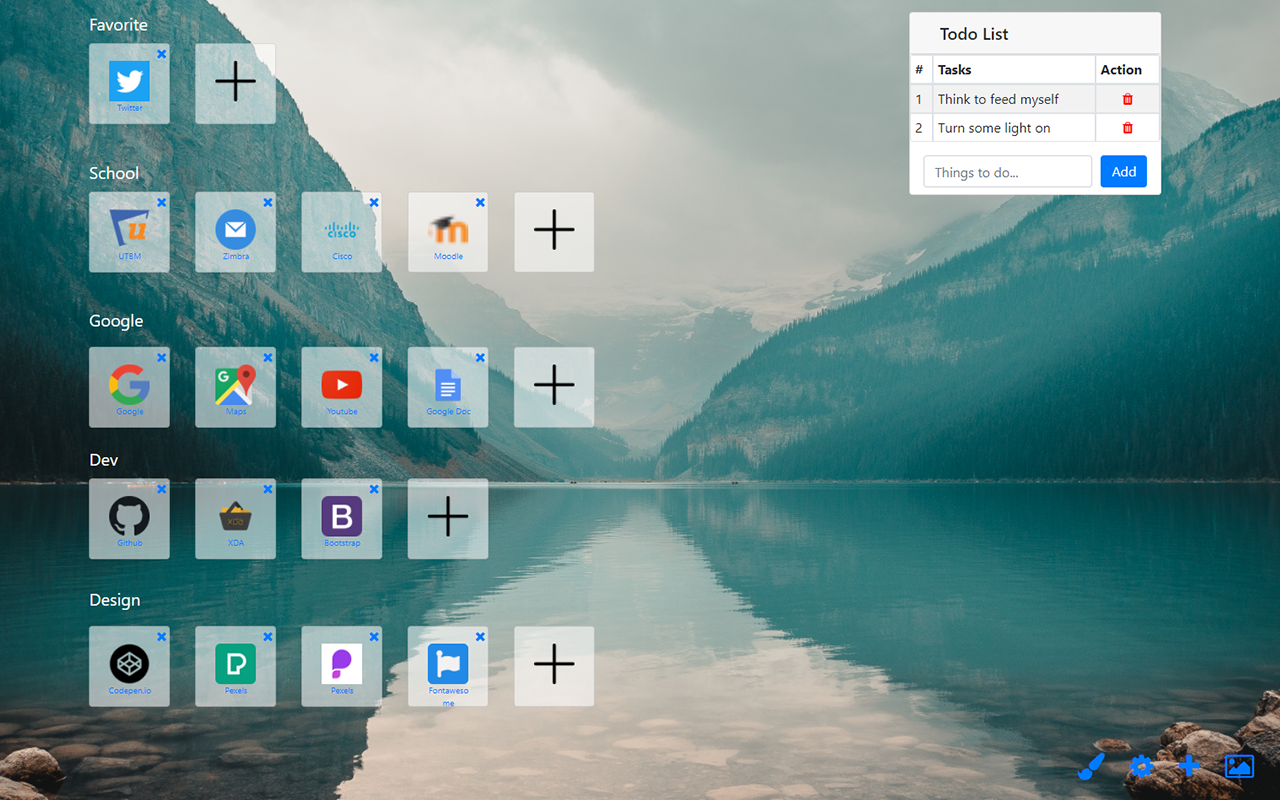
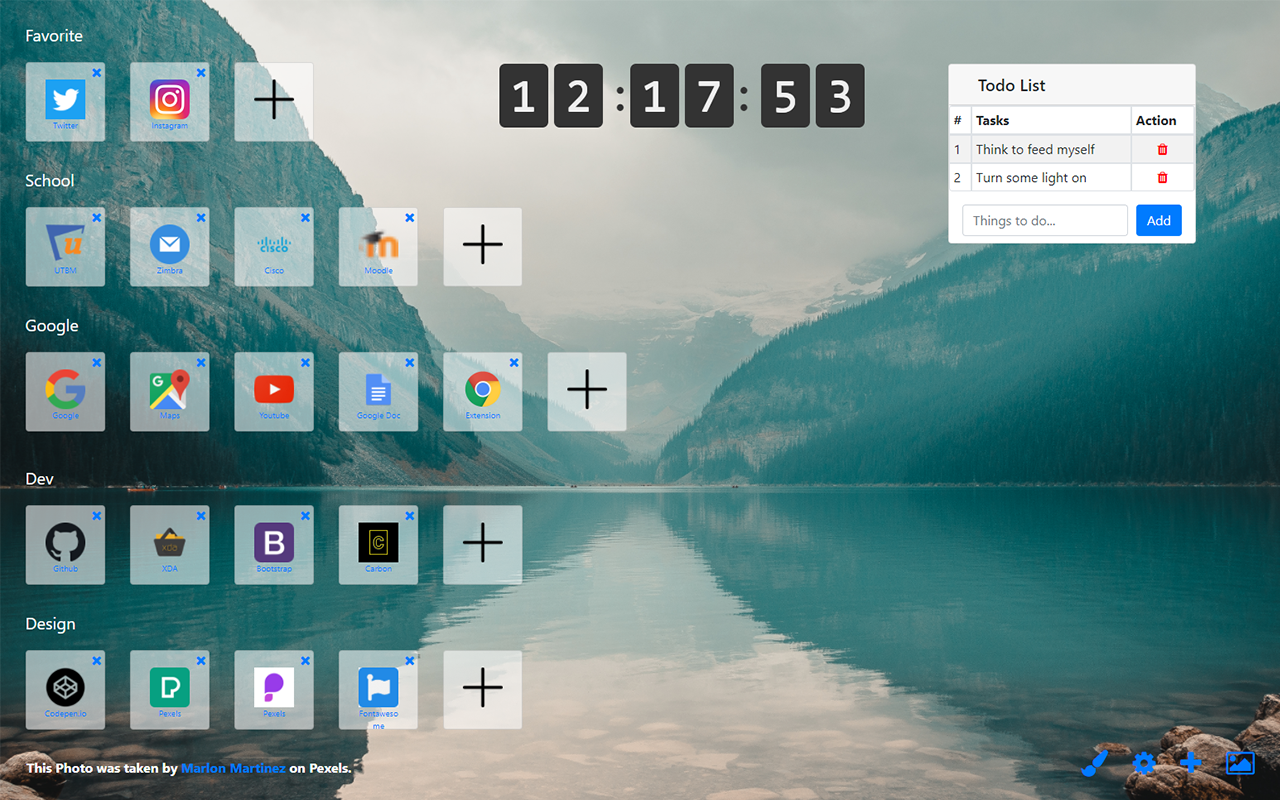
Update
- Fixing text in shortcuts
- Adding credit to authors
- adding default page when first launch (Avoid empty screen)
- Updating version number -> 0.2
- Updating screenshots

diff --git a/src/Components/Home.component.js b/src/Components/Home.component.js
@@ -4,7 +4,7 @@ import {Card, Row, Container, Col, Image, Modal, Button, Form, Table, Spinner} f
 import {getComponentByID,randomIntFromInterval,cachingImage,exportAllData} from './../Utils';
 import Gallery  from './Gallery.component'
 import { v4 as uuidv4 } from 'uuid';
-
+import default_config from './../default_config.json';
 
 
 export default class Home extends Component {
@@ -26,6 +26,7 @@ export default class Home extends Component {
         this.reloadWallpaper = this.reloadWallpaper.bind(this);
         this.onImport = this.onImport.bind(this);
         this.onExport = this.onExport.bind(this);
+        this.firstLaunch = this.firstLaunch.bind(this);
 
         document.addEventListener('mousemove', this.mouseMove);
         document.addEventListener('mouseup', this.mouseup);
@@ -46,8 +47,10 @@ export default class Home extends Component {
         if(chrome.storage !== undefined) {
 
             chrome.storage.local.get("home", function (items) {
-                if(!items["home"])
+                if(!items["home"]) {
+                    this.firstLaunch();
                     return;
+                }
                 console.log("home: " + JSON.stringify(items));
                 this.setState({widgets:items.home})
                 this.reloadWallpaper(false);
@@ -57,6 +60,12 @@ export default class Home extends Component {
         {
             console.log("Debugging");
         }
+    }
+
+    firstLaunch()
+    {
+        console.log("First launch");
+        this.onImport(default_config);
     }
 
     mouseMove(e) {
@@ -191,10 +200,20 @@ export default class Home extends Component {
 
                 if(needCaching)
                     cachingImage(urls,(index) => {
-                        this.setState({backgroundImage:"url("+selected.photos[index].src.original+")",spinning:false})
+                        this.setState({
+                            backgroundImage:"url("+selected.photos[index].src.original+")",
+                            spinning:false,
+                            credit:{photographer:selected.photos[index].photographer,photographer_url:selected.photos[index].photographer_url}
+                        });
                     })
-                else
-                    this.setState({backgroundImage:"url("+selected.photos[randomIntFromInterval(0,urls.length-1)].src.original+")",spinning:false})
+                else {
+                    let index = randomIntFromInterval(0, urls.length - 1);
+                    this.setState({
+                        backgroundImage:"url("+selected.photos[index].src.original+")",
+                        spinning:false,
+                        credit:{photographer:selected.photos[index].photographer,photographer_url:selected.photos[index].photographer_url}
+                    });
+                }
 
 
             }.bind(this));
@@ -204,21 +223,33 @@ export default class Home extends Component {
     }
 
 
-    onImport()
+    onImport(data = undefined)
     {
-        const data = JSON.parse(this.state.buffer);
+        if(data === undefined)
+            data = JSON.parse(this.state.buffer);
+
+        let count = 0;
         data.forEach((item,i) => {
             let key = Object.keys(item)[0];
             console.log("Saving " + key + " ")
             chrome.storage.local.set({ [key]: item[key]},() => {
                 console.log("Saved");
+                count++;
+
+                if(count === data.length - 1)
+                {
+                    console.log("Reloading..");
+                    window.location.reload();
+                }
             });
         })
     }
 
     onExport()
     {
+        console.log("On Export");
         exportAllData(this.state.widgets,(res) => {
+            console.log("Exporting..");
             this.setState({buffer:JSON.stringify(res)});
         })
     }
@@ -236,12 +267,15 @@ export default class Home extends Component {
                         { React.createElement(getComponentByID(item.componentID), {UUID:item.UUID, editor:this.state.editMode})}
                     </div>
                 })}
+                {this.state.credit?<Container className="credit">
+                    <span>This Photo was taken by <a target="_blank" href={this.state.credit.photographer_url}>{this.state.credit.photographer}</a> on Pexels.</span>
+                </Container>:<></>}
 
                 <Container className="tools">
                     <Row>
                         <Col md="auto"><a href="#"><i className="fa fa-paint-brush fa-2x" onClick={this.onEdit}></i></a></Col>
-                        <Col md="auto"><a href="#"><i className="fa fa-cog fa-2x"
-                                                       onClick={() => this.setState({restoreModal: true})}></i></a></Col>
+                        {/*<Col md="auto"><a href="#"><i className="fa fa-cog fa-2x"
+                                                       onClick={() => this.setState({restoreModal: true})}></i></a></Col>*/}
                         <Col md="auto"><a href="#"><i className="fa fa-plus fa-2x" onClick={this.handleShow}></i></a></Col>
                         <Col md="auto"><a href="#"><i className="fa fa-image fa-2x" onClick={this.onShowWallpaperModal}></i></a></Col>
                     </Row>
@@ -317,7 +351,7 @@ export default class Home extends Component {
                             <Form.Control as="textarea" rows={10} value={this.state.buffer} onChange={e => this.setState({ buffer: e.target.value })}/>
                         </Form.Group>
                         <Button variant="primary" onClick={this.onExport}>Export (Storage->Here)</Button>{' '}
-                        <Button variant="secondary" onClick={this.onImport}>Import (Here->Storage)</Button>{' '}
+                        <Button variant="secondary" onClick={() => this.onImport()}>Import (Here->Storage)</Button>{' '}
                     </Form>
                     <Modal.Footer>
                         <Button variant="secondary" onClick={() => this.setState({restoreModal:false})}>

diff --git a/src/Components/Shortcut.widget.js b/src/Components/Shortcut.widget.js
@@ -42,57 +42,60 @@ export default class ShortcutWidget extends Widget {
     handleAdd() {
         //console.log(this.state.url);
         //console.log(this.state.icon);
+        this.setState({disabled:true}, () => {
+            if(this.state.icon.length === 0)
+            {
+                fetch(favURL + this.state.url)
+                    .then((response) => {
+                        return response.json()
+                    })
+                    .then((data) => {
+                        if(data.icons === undefined)
+                        {
+                            this.state.shortcut.push({
+                                src: undefined,
+                                url: this.state.url
+                            });
+                        }
+                        else
+                        {
+                            this.state.shortcut.push({
+                                src: data.icons[0].url,
+                                url: this.state.url,
+                                customName: this.state.customName,
+                            });
+                        }
 
-        if(this.state.icon.length === 0)
-        {
-            fetch(favURL + this.state.url)
-                .then((response) => {
-                    return response.json()
-                })
-                .then((data) => {
-                    if(data.icons === undefined)
-                    {
-                        this.state.shortcut.push({
-                            src: undefined,
-                            url: this.state.url
+                        this.setState({show: false, shortcut: this.state.shortcut,icon:"",customName:"",url:"",disabled:false},() => {
+
+                            this.saveState(() => {
+                                console.log("State saved.");
+                            });
                         });
-                    }
-                    else
-                    {
-                        this.state.shortcut.push({
-                            src: data.icons[0].url,
-                            url: this.state.url,
-                            customName: this.state.customName,
-                        });
-                    }
-
-                    this.setState({show: false, shortcut: this.state.shortcut},() => {
-
-                        this.saveState(() => {
-                            console.log("State saved.");
-                        });
-                    });
-                    //console.log(data)
-                })
-                .catch((err) => {
-                    // Do something for an error here
-                })
-        }
-        else //User put his own icon
-        {
-            this.state.shortcut.push({
-                src: this.state.icon,
-                url: this.state.url,
-                customName: this.state.customName,
-            });
-            this.setState({show: false, shortcut: this.state.shortcut},() => {
-
-                this.saveState(() => {
-                    console.log("State saved.");
+                        //console.log(data)
+                    })
+                    .catch((err) => {
+                        // Do something for an error here
+                    })
+            }
+            else //User put his own icon
+            {
+                this.state.shortcut.push({
+                    src: this.state.icon,
+                    url: this.state.url,
+                    customName: this.state.customName,
                 });
+                this.setState({show: false, shortcut: this.state.shortcut,icon:"",customName:"",url:"",disabled:false},() => {
 
-            });
-        }
+                    this.saveState(() => {
+                        console.log("State saved.");
+                    });
+
+                });
+            }
+        })
+
+
     }
 
     handleRemove(index)
@@ -178,10 +181,10 @@ export default class ShortcutWidget extends Widget {
                         </Form.Group>
                     </Modal.Body>
                     <Modal.Footer>
-                        <Button variant="secondary" onClick={this.handleClose}>
+                        <Button variant="secondary" onClick={this.handleClose} disabled={this.state.disabled}>
                             Cancel
                         </Button>
-                        <Button variant="primary" onClick={this.handleAdd}>Add</Button>
+                        <Button variant="primary" onClick={this.handleAdd} disabled={this.state.disabled}>Add</Button>
                     </Modal.Footer>
                 </Modal>
             </Container>

diff --git a/src/Utils.js b/src/Utils.js
@@ -88,6 +88,8 @@ export const exportAllData = (widgets,callback) =>
         array.push(item.UUID);
     })
 
+    console.log(array);
+
     array.forEach((item,i) => {
         chrome.storage.local.get(item, function (res) {
 
@@ -97,8 +99,9 @@ export const exportAllData = (widgets,callback) =>
 
             output.push(res);
 
-            if(count >= array.length)
+            if(count >= array.length-1)
             {
+                console.log("Callback");
                 callback(output);
             }
         });

diff --git a/src/App.css b/src/App.css
@@ -78,6 +78,16 @@
     padding: 2rem;
 }
 
+.credit {
+    position: absolute;
+    left: 0;
+    bottom: 0;
+    width: fit-content;
+    padding: 2rem;
+    color: white;
+    font-weight: bold;
+}
+
 .editMenu {
     border-radius: 15px;
     background: #950000;

diff --git a/src/App.js b/src/App.js
@@ -7,7 +7,7 @@ import './App.css';
 import './Clock.css';
 
 
-const VERSION = "0.1";
+const VERSION = "0.2";
 
 class App extends Component {
 

diff --git a/README.md b/README.md
@@ -2,7 +2,7 @@
 
 ![homepage](https://github.com/axel0070/Homepage/blob/main/Screenshots/Example.png)
 
-A chrome extension which provide a nice customizable Homepage.
+A chrome extension which provide a nice customizable Homepage, you can download it from the chrome web store [here](https://chrome.google.com/webstore/detail/homepage/lldjhjmaljndmlnbomjcofanjalieahb)
 
 ## Widgets
  
@@ -25,6 +25,8 @@ The user can choose between themes available, and differents images will be disp
 Some future widgets I will implement:
 - Clock
 - Session saving (All the tabs open save them and restore them later)
+ 
+ 
  
 ## Creating widgets
 
